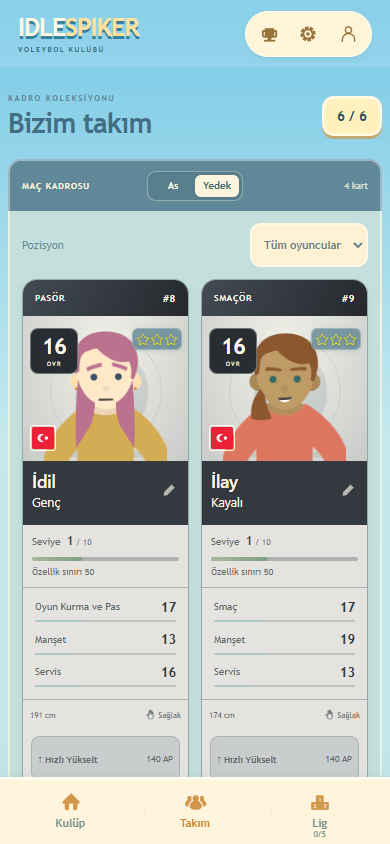
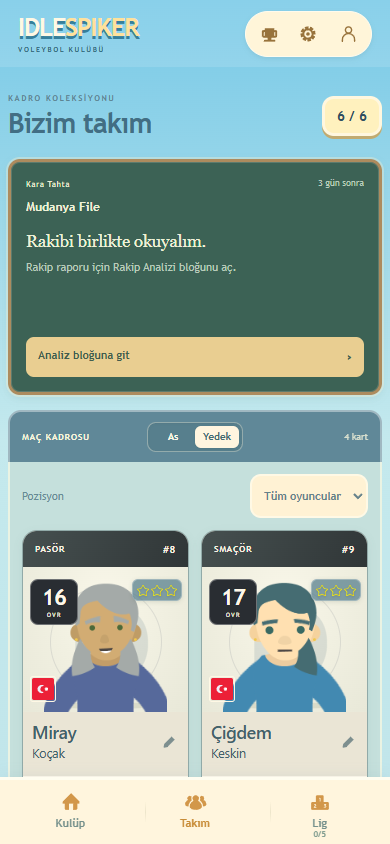
Warm graphite cards to match the club menu palette

diff --git a/index.html b/index.html
@@ -1,5 +1,5 @@
 <!doctype html>
-<html lang="tr"><head><script src="flow-preview-environment.js?v=bd84173813bd"></script><meta charset="utf-8"><meta name="viewport" content="width=device-width,initial-scale=1,viewport-fit=cover"><meta name="theme-color" content="#72c8e5"><link rel="manifest" href="manifest.webmanifest"><link rel="apple-touch-icon" href="assets/app/apple-touch-icon.png"><meta name="apple-mobile-web-app-capable" content="yes"><meta name="apple-mobile-web-app-title" content="Idle Spiker"><meta name="apple-mobile-web-app-status-bar-style" content="default"><link rel="stylesheet" href="app-display.css?v=dddd03a9c288"><script src="app-display.js?v=b5d87ee171a3" defer></script><title>Idle Spiker · Kulüp Merkezi</title><link rel="stylesheet" href="menu.css?v=7f4cff442596"><link rel="stylesheet" href="menu-game.css?v=7c47dfcd1936"><link rel="stylesheet" href="team.css?v=bcffe6b92c1a"><link rel="stylesheet" href="league-season.css?v=6a6a164bc92c"><style>#bootScreen{position:fixed;inset:0;max-width:480px;margin-inline:auto;z-index:10000;display:grid;place-content:center;justify-items:center;gap:20px;background:#fff3d7;color:#547c83;font-family:system-ui,sans-serif}#bootScreen strong{font-size:30px;letter-spacing:2px}#bootScreen strong span{color:#bb995b}#bootScreen p{font-size:12px;margin:0;color:#819383}#bootPepper{visibility:hidden;width:260px;height:212px;border:0;background:transparent;pointer-events:none}#bootScreen img{width:48px;height:48px;animation:boot-bounce 1.2s ease-in-out infinite}@keyframes boot-bounce{50%{transform:translateY(-12px) rotate(18deg)}}@media(prefers-reduced-motion:reduce){#bootScreen img{animation:none}}</style><link rel="stylesheet" href="club-journey.css?v=917a08a31784"><link rel="stylesheet" href="bal-stage.css?v=444abd056d33"><script src="season-clock.js?v=c90a74233800"></script><script src="bal-recovery.js?v=003056f070b8"></script><script src="weekly-season-migration.js?v=c91052e58aec"></script><script src="number-ui.js?v=a24b5930e991"></script><link rel="stylesheet" href="theme.css?v=0b9605642a6e"><script src="theme.js?v=2ff3fa24a10d"></script><link rel="stylesheet" href="achievements.css?v=1c29bee815e6"><link rel="stylesheet" href="division-three.css?v=78ff12e9b771"><link rel="stylesheet" href="social-screen.css?v=6af08b4f68fb"><link rel="stylesheet" href="league-players.css?v=86e88a43a3b5"><link rel="stylesheet" href="language.css?v=b027c2a552b8"><script src="language-data.js?v=80bdfed06357"></script><script src="language.js?v=6352cc5dd035"></script><link rel="stylesheet" href="player-skills.css?v=c6311b52ef2f"><link rel="stylesheet" href="styles/ui/player-club-card.css?v=9dfb8de4961e"><link rel="stylesheet" href="styles/ui/transfer-center.css?v=7bcc2f214fba"><script src="scripts/ui/dialog-navigation.js?v=0988251be4a1" defer></script><link rel="stylesheet" href="social-journey.css?v=381c58c2dc22"><link rel="stylesheet" href="next-match-card.css?v=05b830fcc39d"><link rel="stylesheet" href="social-follower-counter.css?v=038892551d63"><link rel="stylesheet" href="player-profile.css?v=9c3d709eac72"><link rel="stylesheet" href="ui-icons.css?v=b5ce6adfd485"><link rel="stylesheet" href="flow-effects.css?v=f82bf838ab8c"><link rel="stylesheet" href="board-doodles.css?v=85c5f17bdbe1"><link rel="stylesheet" href="board-presentation.css?v=3ae360fc348f"><link rel="stylesheet" href="progression-visuals.css?v=0ebc0cb3e490"><link rel="stylesheet" href="flow-lanes.css?v=d7f1e62ee16b"><link rel="stylesheet" href="flow-media-theme.css?v=a959430cbe25"><link rel="stylesheet" href="ui-components.css?v=7134f0d3ab29"><link rel="stylesheet" href="academy.css?v=1b4435c160c0"><link rel="stylesheet" href="academy-career.css?v=dce351f388e6"></head>
+<html lang="tr"><head><script src="flow-preview-environment.js?v=bd84173813bd"></script><meta charset="utf-8"><meta name="viewport" content="width=device-width,initial-scale=1,viewport-fit=cover"><meta name="theme-color" content="#72c8e5"><link rel="manifest" href="manifest.webmanifest"><link rel="apple-touch-icon" href="assets/app/apple-touch-icon.png"><meta name="apple-mobile-web-app-capable" content="yes"><meta name="apple-mobile-web-app-title" content="Idle Spiker"><meta name="apple-mobile-web-app-status-bar-style" content="default"><link rel="stylesheet" href="app-display.css?v=dddd03a9c288"><script src="app-display.js?v=b5d87ee171a3" defer></script><title>Idle Spiker · Kulüp Merkezi</title><link rel="stylesheet" href="menu.css?v=7f4cff442596"><link rel="stylesheet" href="menu-game.css?v=7c47dfcd1936"><link rel="stylesheet" href="team.css?v=bcffe6b92c1a"><link rel="stylesheet" href="league-season.css?v=6a6a164bc92c"><style>#bootScreen{position:fixed;inset:0;max-width:480px;margin-inline:auto;z-index:10000;display:grid;place-content:center;justify-items:center;gap:20px;background:#fff3d7;color:#547c83;font-family:system-ui,sans-serif}#bootScreen strong{font-size:30px;letter-spacing:2px}#bootScreen strong span{color:#bb995b}#bootScreen p{font-size:12px;margin:0;color:#819383}#bootPepper{visibility:hidden;width:260px;height:212px;border:0;background:transparent;pointer-events:none}#bootScreen img{width:48px;height:48px;animation:boot-bounce 1.2s ease-in-out infinite}@keyframes boot-bounce{50%{transform:translateY(-12px) rotate(18deg)}}@media(prefers-reduced-motion:reduce){#bootScreen img{animation:none}}</style><link rel="stylesheet" href="club-journey.css?v=917a08a31784"><link rel="stylesheet" href="bal-stage.css?v=444abd056d33"><script src="season-clock.js?v=c90a74233800"></script><script src="bal-recovery.js?v=003056f070b8"></script><script src="weekly-season-migration.js?v=c91052e58aec"></script><script src="number-ui.js?v=a24b5930e991"></script><link rel="stylesheet" href="theme.css?v=0b9605642a6e"><script src="theme.js?v=2ff3fa24a10d"></script><link rel="stylesheet" href="achievements.css?v=1c29bee815e6"><link rel="stylesheet" href="division-three.css?v=78ff12e9b771"><link rel="stylesheet" href="social-screen.css?v=6af08b4f68fb"><link rel="stylesheet" href="league-players.css?v=86e88a43a3b5"><link rel="stylesheet" href="language.css?v=b027c2a552b8"><script src="language-data.js?v=80bdfed06357"></script><script src="language.js?v=6352cc5dd035"></script><link rel="stylesheet" href="player-skills.css?v=c6311b52ef2f"><link rel="stylesheet" href="styles/ui/player-club-card.css?v=6cd43a82d6d6"><link rel="stylesheet" href="styles/ui/transfer-center.css?v=7bcc2f214fba"><script src="scripts/ui/dialog-navigation.js?v=0988251be4a1" defer></script><link rel="stylesheet" href="social-journey.css?v=381c58c2dc22"><link rel="stylesheet" href="next-match-card.css?v=05b830fcc39d"><link rel="stylesheet" href="social-follower-counter.css?v=038892551d63"><link rel="stylesheet" href="player-profile.css?v=9c3d709eac72"><link rel="stylesheet" href="ui-icons.css?v=b5ce6adfd485"><link rel="stylesheet" href="flow-effects.css?v=f82bf838ab8c"><link rel="stylesheet" href="board-doodles.css?v=85c5f17bdbe1"><link rel="stylesheet" href="board-presentation.css?v=3ae360fc348f"><link rel="stylesheet" href="progression-visuals.css?v=0ebc0cb3e490"><link rel="stylesheet" href="flow-lanes.css?v=d7f1e62ee16b"><link rel="stylesheet" href="flow-media-theme.css?v=a959430cbe25"><link rel="stylesheet" href="ui-components.css?v=7134f0d3ab29"><link rel="stylesheet" href="academy.css?v=1b4435c160c0"><link rel="stylesheet" href="academy-career.css?v=dce351f388e6"></head>
 <body><div id="bootScreen" role="status" aria-live="polite"><strong>IDLE<span>SPIKER</span></strong><iframe id="bootPepper" src="mac.html?bootPepper=1" title="Isınma yapan iki oyuncu" tabindex="-1" aria-hidden="true"></iframe><p>Kulüp hazırlanıyor…</p></div><script>window.bootStartedAt=performance.now();window.bootFallback=setTimeout(function(){document.getElementById("bootScreen")?.remove()},10000)</script><div class="shell"><aside class="rail"><a class="brand" href="index.html" aria-label="Idle Spiker ana menü"><svg viewBox="0 0 40 40" aria-hidden="true"><circle cx="20" cy="20" r="15"/><path d="M7 13q15 0 18 22M19 5q-5 13-12 19M34 17q-12-3-19 13"/></svg></a><span class="rail-word">IDLE SPIKER</span><a class="rail-icon active" href="index.html" aria-label="Kulüp merkezi" title="Kulüp merkezi">⌂</a><span class="rail-bottom">01 / CLUB</span></aside>
 <div class="content"><header class="topbar"><a href="index.html" class="wordmark">IDLE<span>SPIKER</span><small>VOLEYBOL KULÜBÜ</small></a><nav aria-label="Ana gezinme"><span class="nav-current">Kulüp merkezi</span></nav><button id="settingsButton" class="settings-button" type="button" aria-label="Ayarları aç">⚙ Ayarlar</button></header>
 <main><div class="dashboard"><section id="clubPanel" class="club-panel" aria-label="Kulüp departmanları"><div class="section-top"><div><span class="eyebrow">BİZİM KULÜP · AŞAMA 1</span></div></div>

diff --git a/styles/ui/player-club-card.css b/styles/ui/player-club-card.css
@@ -149,12 +149,12 @@ html[data-theme=dark] .player-card .card-art>.card-grade{color:#d8e5d9;opacity:.
 
 .player-card{--player-ovr-left:10px}.player-card .card-art>.player-country-badge{left:var(--player-ovr-left);right:auto;bottom:10px}#teamPanel .player-card{--player-ovr-left:12px}@media(max-width:540px){#teamPanel .player-card{--player-ovr-left:7px}}
 /* Approved graphite card: shared team and transfer anatomy, elite stays purple. */
-html:not(.elite-preview-page) .player-card:not(.elite-player){--club-kit:#292d32;--club-edge:#656b73;--club-shadow:#202328;--club-paper:#e4e3df;--club-soft:#c9cbc9;--club-name:#34393f;--club-port:#f2f1e9;--club-ink:#343b41;--club-muted:#62696c;--club-line:#adb1b2;--club-action:#c9cdcd;--club-gold:#292d32}
-html:not(.elite-preview-page) .player-card:not(.elite-player) .card-top{background:linear-gradient(115deg,#434a52,#25292e)!important}
-html:not(.elite-preview-page) .player-card:not(.elite-player) .card-name,html:not(.elite-preview-page) .player-card:not(.elite-player) .card-name *{color:#fff8e9!important}
+html:not(.elite-preview-page) .player-card:not(.elite-player){--club-kit:#343a3b;--club-edge:#747a75;--club-shadow:#74796b55;--club-paper:#fff9eb;--club-soft:#e8e8d8;--club-name:#eae5d5;--club-port:#f9f7e9;--club-ink:#42616a;--club-muted:#758074;--club-line:#d0d4c1;--club-action:#e8e7d6;--club-gold:#343a3b}
+html:not(.elite-preview-page) .player-card:not(.elite-player) .card-top{background:linear-gradient(115deg,#465050,#303637)!important}
+html:not(.elite-preview-page) .player-card:not(.elite-player) .card-name,html:not(.elite-preview-page) .player-card:not(.elite-player) .card-name *{color:var(--club-ink)!important}
 html:not(.elite-preview-page) .player-card:not(.elite-player) .player-overall{background:#292d32!important;color:#fff8e9!important}
 html:not(.elite-preview-page) .player-card:not(.elite-player) .card-art{background:radial-gradient(ellipse at 50% 25%,var(--club-port),var(--club-soft))!important}
 html:not(.elite-preview-page) .player-card:not(.elite-player) .card-halo{background:transparent;border-color:#adb1b255}
-html:not(.elite-preview-page) .player-card:not(.elite-player)[data-can-upgrade=true] .card-open-upgrade,html:not(.elite-preview-page) .player-card:not(.elite-player) .scout-hire:not(:disabled){background:#292d32!important;border-color:#656b73!important;color:#fff8e9!important}
+html:not(.elite-preview-page) .player-card:not(.elite-player)[data-can-upgrade=true] .card-open-upgrade,html:not(.elite-preview-page) .player-card:not(.elite-player) .scout-hire:not(:disabled){background:#dedfc9!important;border-color:#a7b397!important;color:#38565a!important}
 html:not(.elite-preview-page) .player-card:not(.elite-player)[data-can-upgrade=true] .card-open-upgrade small{color:inherit!important}
 html[data-theme=dark]:not(.elite-preview-page) .player-card:not(.elite-player){--club-paper:#303438;--club-soft:#3d4347;--club-name:#23272c;--club-port:#444b50;--club-ink:#edece5;--club-muted:#c0c5c3;--club-line:#5d676d;--club-edge:#737d83;--club-action:#454c51;--club-shadow:#171a1d}

diff --git a/card-design-preview.html b/card-design-preview.html
@@ -1,1 +1,1 @@
-<!doctype html><html lang="tr" class="elite-preview-page"><head><meta charset="utf-8"><meta name="viewport" content="width=device-width,initial-scale=1"><title>Oyuncu kartı tasarımları</title><link rel="stylesheet" href="team.css?v=bcffe6b92c1a"><link rel="stylesheet" href="styles/ui/player-club-card.css?v=9dfb8de4961e"><link rel="stylesheet" href="styles/ui/transfer-center.css?v=7bcc2f214fba"><link rel="stylesheet" href="ui-components.css?v=7134f0d3ab29"><link rel="stylesheet" href="elite-design-preview.css?v=5feb6ebeea7c"></head><body><main id="scoutDialog"><section aria-labelledby="cardSeriesTitle"><header class="card-lab-heading"><small>KARTIN GÖRSEL GELİŞİMİ</small><h2 id="cardSeriesTitle">Siyah · Gümüş · Altın · Mor</h2><p>Aynı oyuncu ve aynı OVR. Aşamalar, kartın görünüşünü karşılaştırmak içindir.</p></header><div id="cardProgression" class="card-lab-grid"></div></section><section aria-labelledby="potentialTitle"><header class="card-lab-heading"><small>AKADEMİ · POTANSİYELLİ GENÇLER</small><h2 id="potentialTitle">Geleceği henüz belli değil.</h2><p>Şimdiki OVR görünür. Mezuniyet gücü: ???</p></header><div id="eliteOptions" class="card-lab-grid"></div></section></main><script src="card-lab-template.js?v=f9ce24745e08"></script><script src="elite-design-preview.js?v=9668b90e8529"></script></body></html>
+<!doctype html><html lang="tr" class="elite-preview-page"><head><meta charset="utf-8"><meta name="viewport" content="width=device-width,initial-scale=1"><title>Oyuncu kartı tasarımları</title><link rel="stylesheet" href="team.css?v=bcffe6b92c1a"><link rel="stylesheet" href="styles/ui/player-club-card.css?v=6cd43a82d6d6"><link rel="stylesheet" href="styles/ui/transfer-center.css?v=7bcc2f214fba"><link rel="stylesheet" href="ui-components.css?v=7134f0d3ab29"><link rel="stylesheet" href="elite-design-preview.css?v=5feb6ebeea7c"></head><body><main id="scoutDialog"><section aria-labelledby="cardSeriesTitle"><header class="card-lab-heading"><small>KARTIN GÖRSEL GELİŞİMİ</small><h2 id="cardSeriesTitle">Siyah · Gümüş · Altın · Mor</h2><p>Aynı oyuncu ve aynı OVR. Aşamalar, kartın görünüşünü karşılaştırmak içindir.</p></header><div id="cardProgression" class="card-lab-grid"></div></section><section aria-labelledby="potentialTitle"><header class="card-lab-heading"><small>AKADEMİ · POTANSİYELLİ GENÇLER</small><h2 id="potentialTitle">Geleceği henüz belli değil.</h2><p>Şimdiki OVR görünür. Mezuniyet gücü: ???</p></header><div id="eliteOptions" class="card-lab-grid"></div></section></main><script src="card-lab-template.js?v=f9ce24745e08"></script><script src="elite-design-preview.js?v=9668b90e8529"></script></body></html>

diff --git a/DESIGN-SYSTEM.md b/DESIGN-SYSTEM.md
@@ -16,7 +16,7 @@ Son inceleme ve tutarlılık düzeltmeleri: 24 Ekim 2026. Bu dosya, kullanıcın
 1. Oyun sakin, sıcak, okunabilir, mobil ölçülerinde bir idle voleybol oyunu. Gelişim görünmeli; ekranda kalabalık ve aşırı efekt oluşmamalı.
 2. Mobilde onaylanan görünüm masaüstünde genişletilip başka bir tasarıma dönüştürülmemeli. Özellikle saha/müzik seçicileri birebir aynı ölçü ve düzende olmalı.
 3. Kullanıcının yaptığı karakter portrelerini ve kırpma sistemini koru. Görsel sorunu düzeltmek için portreyi yeniden çizme veya farklı bir temsil koyma.
-4. Normal oyuncu kartı artık onaylanan siyah grafit görünümünü kullanır: mat siyah başlık/OVR, krem yazılı grafit isim alanı, açık sıcak gri iç yüzey ve koyu kenar. Normal kartlarda gelişim seviyesinin eski sarı çift iç çerçevesi gösterilmez; grafit kenar korunur. Takım ve transfer kartları aynı renk ailesindedir; koyu temada iç yüzey koyu grafittir. Portre kırpması ve kart anatomisi korunur. Gümüş/altın henüz yalnız tasarım alternatifidir. Elit kart aynı anatomiyi kullanır; mor çerçeve ve mora çalan iç renkler, portrede beyaza yakın zemin. Ayrı “Elit oyuncu” etiketi yok.
+4. Normal oyuncu kartı artık onaylanan siyah grafit görünümünü kullanır: mat kömür başlık/OVR ve ince grafit kenar; iç yüzey sıcak kırık beyaz, isim alanı açık taş rengi ve yazısı koyu mavimsi yeşildir. Düğmeler açık taş/adaçayı tonlarında; geniş koyu isim alanı ve soğuk gri gövde kullanılmaz. Normal kartlarda gelişim seviyesinin eski sarı çift iç çerçevesi gösterilmez; grafit kenar korunur. Takım ve transfer kartları aynı renk ailesindedir; koyu temada iç yüzey koyu grafittir. Portre kırpması ve kart anatomisi korunur. Gümüş/altın henüz yalnız tasarım alternatifidir. Elit kart aynı anatomiyi kullanır; mor çerçeve ve mora çalan iç renkler, portrede beyaza yakın zemin. Ayrı “Elit oyuncu” etiketi yok.
 5. Tutorial görülünce tekrar otomatik gösterilmez. “Anladım”a basılmamış olması yeniden gösterme sebebi değildir. Kullanıcının bilerek açtığı tekrar inceleme ayrı durumdur.
 6. Tutorialın rengi, kutusu, karartması, hedef vurgusu ve düğme düzeni yeni özellik başına değiştirilmez. Yerleşim hedefe göre değişebilir; görsel aile değişmez.
 7. Küçük modal açıkken arka plan kararır ve arka sayfa kaymaz. Modal/tour kapandığında karartma ve kaydırma kilidi kalmaz. Normal menü gezinmesinde kalıcı karartma yok.
